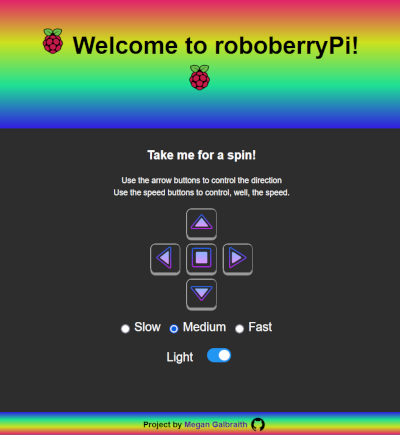
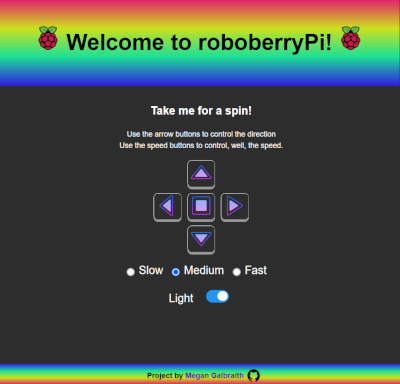
Update README.md
Added more content and changed a few things. Adjusted the image for gui.png.

diff --git a/README.md b/README.md
@@ -25,7 +25,7 @@ initial construction of the scripts and physical components were based off this,
 but I made certain adaptations along the way, such as compiling the multiple
 movement control scripts into just two scripts that accept arguments.
 
-A note about pulse width modulation (PWM): this is a technique to control the power being supplied to something. A certain number of pulses are produced every time cycle, with the length of the pulse corresponding to how much of the supplied power a component will receive. For example, if the pulse is active for half the time, the component will only receive half of the full power source (see image below).
+A note about pulse width modulation (PWM): this is a technique to control the power being supplied by averaging the value of the input voltage through a series of ON-OFF pulses. The average voltage is proportional to the width of the pulses, as seen below. Basically, the wider the pulses, the more power supplied to the motor, the faster it spins. 
 
 ![pwm examples](assets/images/pwm.png)
 
@@ -62,7 +62,7 @@ Now that I knew the logic was correct, I tested wiring up each motor to make
 sure I had the motors correctly polarized (ie, they turn the wheels in the 
 expected direction). I'm using a L298N motor driver to simplify the motor 
 control. I also think it cuts down on the number of wires needed compared to 
-using an L293D H bridge, as suggested in the reference project. (Also, electronics supply issues are still a thing and this is what I could get). The L298N has two motor control ports, three power ports (only two used in this case for a 9 volt battery strap to power the motors), four motor control pins (forward and reverse for each motor), and two PWM pins.
+using an L293D H bridge, as suggested in the reference project. (Also, electronics supply issues are still a thing and this is what I could get, but Im not sad about te results). The L298N has two motor control ports, three power ports (only two used in this case for a 9 volt battery strap to power the motors), four motor control pins (forward and reverse for each motor), and two PWM pins.
 
 ![Wired up L298N motor driver](assets/images/L298N.jpg)
 
@@ -84,14 +84,22 @@ I took the base of the Python web server from a previous assignment ([chat app](
 
 I highly recommend reading through the [reference project](https://www.instructables.com/IoT-Controlling-a-Raspberry-Pi-Robot-Over-Internet/) before trying to install your own roboberryPi. It will tell you more about how some of the electronic components work than you'll find here.
 
-1. Clone this repo to your Raspberry Pi (may work on other models, but I make no guarantees): ```git clone https://github.com/galbrame/roboberryPi.git```
+1. Clone this repo to your Raspberry Pi (may work on other models, but I make no guarantees): 
+
+```git clone https://github.com/galbrame/roboberryPi.git```
 2. Change the WEB_SERVER variable in assets/roboScript.js to whatever your Pi is on your LAN
-3. Clone and install WiringPi: ```git clone https://github.com/WiringPi/WiringPi.git
+3. Clone and install WiringPi: 
+
+```git clone https://github.com/WiringPi/WiringPi.git
 cd wiringPi
 ./build```
-4. Edit `/etc/rc.local` to change the gpio modes and run webserver.py at boot: ```sudo nano /etc/rc.local```
 
-    - ```...
+4. Edit `/etc/rc.local` to change the gpio modes and run webserver.py at boot: 
+
+```sudo nano /etc/rc.local```
+
+    - 
+    ```#any existing code
     gpio -g mode 5 out
     gpio -g mode 6 out
     gpio -g mode 13 out
@@ -100,14 +108,28 @@ cd wiringPi
     cd /
     python /home/_\<username\>_/roboberryPi/webserver.py
     cd /
-    ...
-    exit 0```
+    
+    exit 0 #last line in file```
     
     - NOTE: Your Pi may work differently, but my Pi seems to launch the webserver more reliably if I navigate to the home folder first
 5. Reboot the Pi: ```sudo reboot```
 6. Once the pi is booted, you should be able to find the GUI at your local address on port 5000
 
 The GUI was tested on both Mozilla Firefox and Google Chrome, but better responsiveness was occasionally observed on the Chrome browser, for whatever reason.
+
+## Running the Tests
+
+Assuming you've already cloned the repo:
+
+1. Open two terminals (or use screen/tmux).
+2. Navigate both to the roboberry/ directory.
+3. In one terminal, launch the web server in test mode:
+```./webserver.py test```
+4. In the other terminal, launch the test suite:
+```python -m unittest -v```
+5. Once the tests are complete, you can close the webserver with ctrl+c.
+
+The web server and tests can be run on any machine, since they're both just Python, but some tests related to the scripts may fail on non-Pi machines. Also, the tests expect to be able to find index.html and assets/roboScripts.css, so if they are run in isolation, those tests will fail as well. Finally, one test expects a single file called someText.txt to be located in the main directory. It doesn't matter what this file contains because the test just compares the server response to the file contents.
 
 
 ## What Did I Learn?
